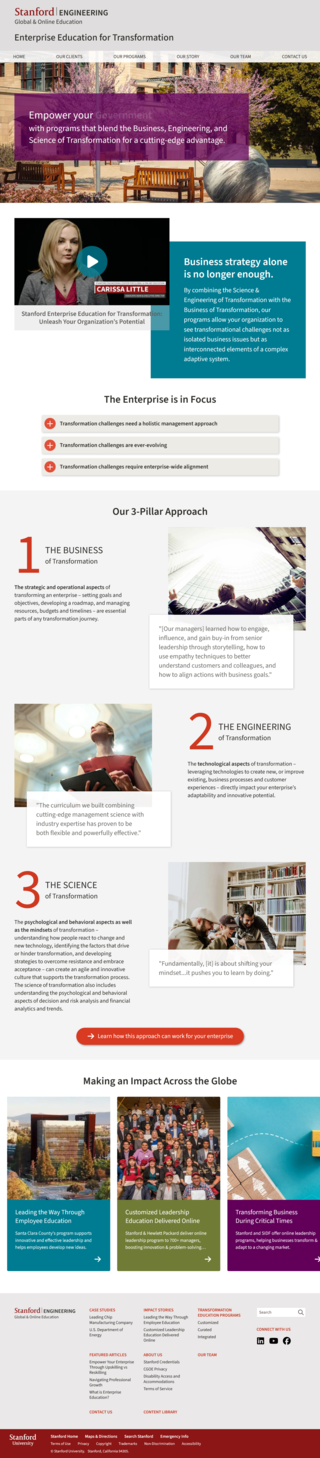
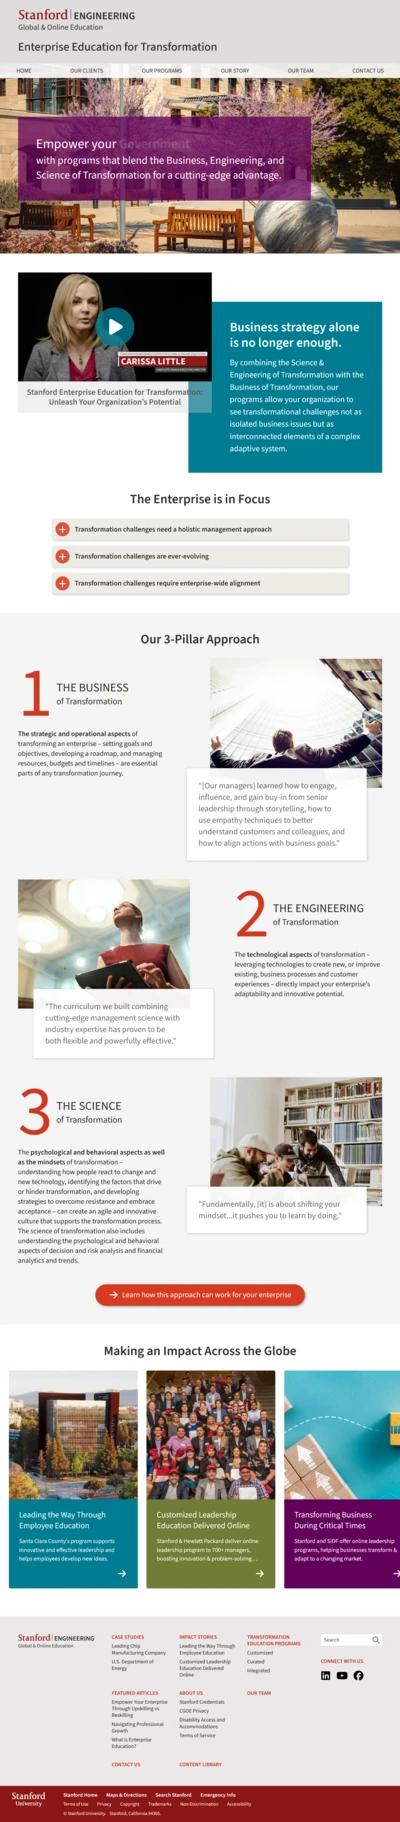
Update image conversion settings and adjust aspect ratio in CSS for improved output quality

diff --git a/src/screenshots.css b/src/screenshots.css
@@ -32,7 +32,7 @@
   }
 
   img {
-    aspect-ratio: var(--ratio-golden);
+    aspect-ratio: 400 / 235;
     object-position: top;
     object-fit: cover;
     display: block;
